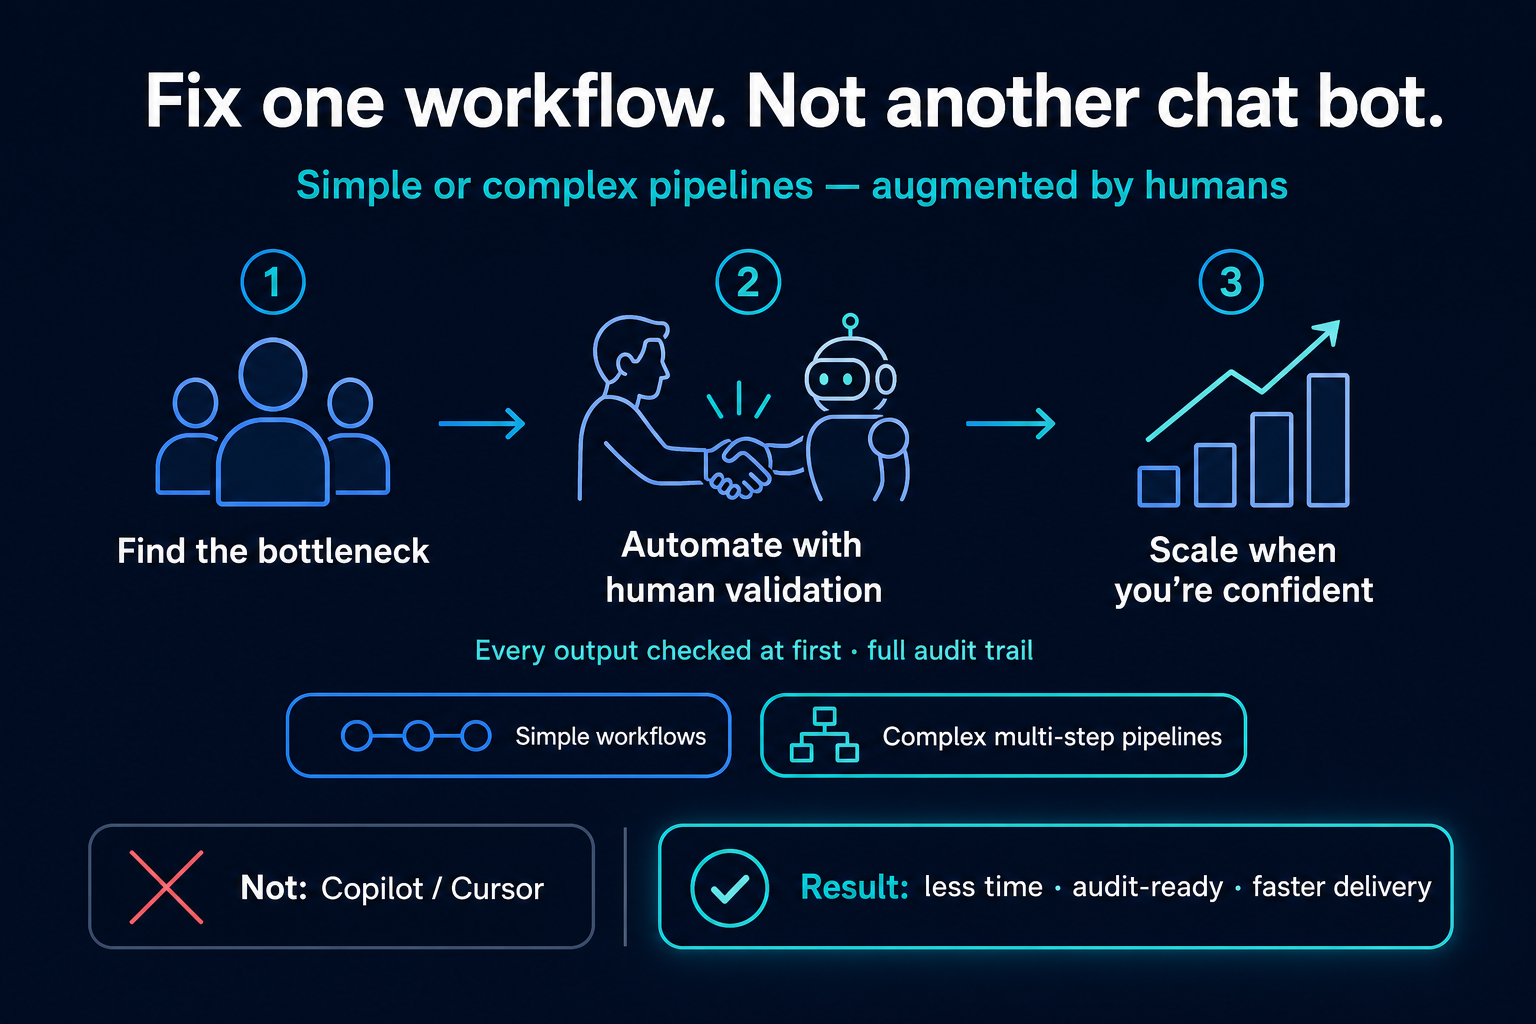
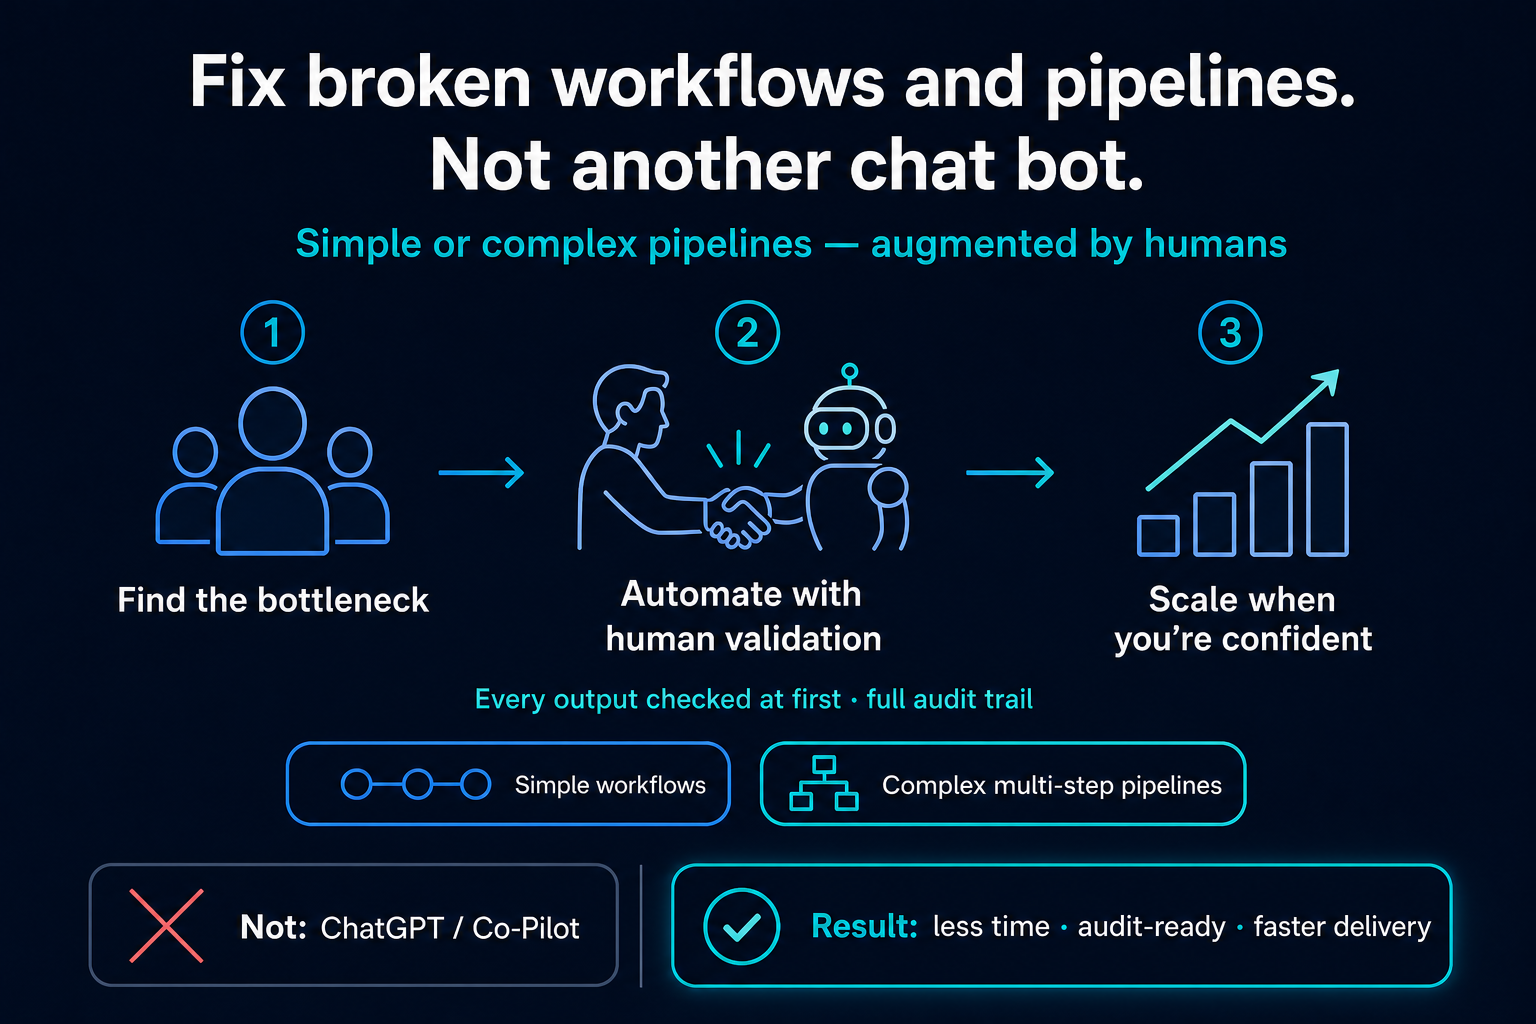
Update site content, pitch image, and fix navigation order caching.
Enforce nav order in JS, bust partial/script caches, and apply recent copy and layout updates across the home page.

Changed region(s): [[0.0625, 0.0312, 0.9688, 0.9688], [0.625, 0.4062, 0.6875, 0.4688]]

diff --git a/css/styles.css b/css/styles.css
@@ -180,14 +180,6 @@ html[data-includes-pending] .page-content {
   }
 }
 
-.badge-dot {
-  width: 0.5rem;
-  height: 0.5rem;
-  border-radius: 9999px;
-  background-color: var(--color-neon-blue);
-  box-shadow: 0 0 6px rgba(59, 130, 246, 0.6);
-}
-
 @media (prefers-reduced-motion: reduce) {
   .glass-panel-hover:hover {
     transform: none;
@@ -877,66 +869,6 @@ main > section:not(.section--hero):not(.announce-bar) {
 }
 
 /* ==========================================================================
-   Badges
-   ========================================================================== */
-
-.badge-row {
-  display: flex;
-  flex-wrap: wrap;
-  align-items: center;
-  justify-content: center;
-  gap: 0.5rem;
-}
-
-.badge {
-  display: inline-flex;
-  align-items: center;
-  gap: 0.5rem;
-  padding: 0.375rem 0.75rem;
-  border-radius: 9999px;
-  font-family: var(--font-mono);
-  font-size: 0.75rem;
-  text-transform: uppercase;
-  letter-spacing: 0.05em;
-}
-
-.badge--blue {
-  background: rgba(59, 130, 246, 0.1);
-  border: 1px solid rgba(59, 130, 246, 0.2);
-  color: var(--color-neon-blue);
-}
-
-.badge--teal {
-  background: rgba(6, 182, 212, 0.1);
-  border: 1px solid rgba(6, 182, 212, 0.2);
-  color: var(--color-neon-teal);
-}
-
-.badge--green {
-  background: rgba(16, 185, 129, 0.1);
-  border: 1px solid rgba(16, 185, 129, 0.2);
-  color: var(--color-neon-green);
-}
-
-.badge--violet {
-  background: rgba(139, 92, 246, 0.1);
-  border: 1px solid rgba(167, 139, 250, 0.25);
-  color: var(--color-violet);
-}
-
-.badge--amber {
-  background: rgba(245, 158, 11, 0.1);
-  border: 1px solid rgba(251, 191, 36, 0.25);
-  color: var(--color-amber);
-}
-
-.badge--emerald {
-  background: rgba(16, 185, 129, 0.1);
-  border: 1px solid rgba(52, 211, 153, 0.25);
-  color: var(--color-emerald);
-}
-
-/* ==========================================================================
    Hero & announcement
    ========================================================================== */
 
@@ -1264,6 +1196,27 @@ main > section:not(.section--hero):not(.announce-bar) {
 
 .credential-list .icon-green {
   color: var(--color-neon-green);
+}
+
+.profile-focus-heading {
+  margin: 0 0 0.625rem;
+}
+
+.profile-focus-list {
+  list-style: none;
+  padding: 0;
+  margin: 0 0 1rem;
+  font-size: 0.75rem;
+  color: var(--color-text-muted);
+  line-height: 1.5;
+  display: flex;
+  flex-direction: column;
+  gap: 0.625rem;
+}
+
+.profile-focus-list strong {
+  color: var(--color-text);
+  font-weight: 600;
 }
 
 .linkedin-link {

diff --git a/index.html b/index.html
@@ -60,18 +60,6 @@
     <section class="section--hero" aria-labelledby="hero-heading">
         <div class="container-md">
             <div class="hero-content">
-                <div class="badge-row">
-                    <div class="badge badge--blue">
-                        <span class="badge-dot" aria-hidden="true"></span>
-                        Pharma
-                    </div>
-                    <div class="badge badge--teal">MedTech</div>
-                    <div class="badge badge--green">Quality &amp; Compliance</div>
-                    <div class="badge badge--violet">Business Systems</div>
-                    <div class="badge badge--amber">FinTech</div>
-                    <div class="badge badge--emerald">Recycling</div>
-                </div>
-
                 <h1 id="hero-heading" class="heading-hero">
                     Practical <span class="text-gradient">AI</span> for Regulated Businesses
                 </h1>
@@ -83,7 +71,7 @@
                 <figure class="content-figure content-figure--hero">
                     <img
                         src="images/bespoke-ai-workflow-pitch-v2.png"
-                        alt="Fix one workflow, not another chatbot: find the bottleneck, automate with human validation, scale when confident. Simple or complex pipelines augmented by humans."
+                        alt="Fix broken workflows and pipelines, not another chatbot: find the bottleneck, automate with human validation, scale when confident. Not ChatGPT or Co-Pilot — simple or complex pipelines augmented by humans."
                         width="1536"
                         height="1024"
                         loading="eager"
@@ -199,8 +187,17 @@
                         <h2 class="profile-name">Karl Nolan</h2>
                         <p class="profile-role">Principal Consultant &amp; Solutions Architect</p>
                         <p class="text-body-sm">
-                            Karl leads global teams of 45+ engineers, moves systems to Google Cloud and Microsoft Azure, and builds AI workflows for regulated businesses.
+                            Over 26 years, Karl has directed global engineering teams, modernised legacy systems, and led cloud-native migrations on Google Cloud and Microsoft Azure.
                         </p>
+                        <p class="text-body-sm">
+                            Beyond generic AI hype, he focuses on high-value improvements in real business processes — pairing architectural strategy with hands-on building.
+                        </p>
+                        <p class="profile-focus-heading text-mono-label text-mono-label--teal">// Core focus</p>
+                        <ul class="profile-focus-list">
+                            <li><strong>AI engineering</strong> — autonomous coding workflows and development automation to speed up delivery and code review.</li>
+                            <li><strong>Predictive data</strong> — systems designed to catch operational instability 12–18 months before regulatory impact.</li>
+                            <li><strong>Enterprise architecture</strong> — moving complex monoliths to secure microservices with clean-code practices and measurable delivery.</li>
+                        </ul>
                         <ul class="credential-list">
                             <li><i class="fa-solid fa-graduation-cap icon-blue" aria-hidden="true"></i><span>BSc Applied Computing (First Class Honours), SETU/WIT</span></li>
                             <li><i class="fa-brands fa-google icon-teal" aria-hidden="true"></i><span>Google Cloud Digital Leader Certification</span></li>
@@ -212,7 +209,7 @@
                         <div class="profile-callouts">
                             <div class="info-callout">
                                 <i class="fa-solid fa-shield-halved" aria-hidden="true"></i>
-                                <span>Clear advice plus hands-on building — not theory only.</span>
+                                <span>We want to help with clear advice plus hands-on building — not theory only.</span>
                             </div>
                             <div class="info-callout info-callout--guarantee">
                                 <i class="fa-solid fa-circle-check" aria-hidden="true"></i>
@@ -225,7 +222,7 @@
                 <div class="stack-xl">
                     <div>
                         <span class="text-mono-label text-mono-label--blue">// How We Work</span>
-                        <h2 class="heading-section">We Build Software. We Don't Just Advise.</h2>
+                        <h2 class="heading-section">We Build Solutions. We Don't Just Advise.</h2>
                     </div>
                     <p class="text-body">
                         We do not operate as an abstract advisory agency that delivers lengthy, impractical slide decks. At <strong class="text-strong">Bespoke AI Engineering Limited</strong>, we deliver working software — AI assistants, ways to collect data without complex integrations, and modern cloud systems built for audit and regulation.
@@ -545,8 +542,8 @@
     <div id="site-footer"></div>
 </div>
 
-<script src="js/site-config.js"></script>
-<script src="js/includes.js"></script>
+<script src="js/site-config.js?v=20260622"></script>
+<script src="js/includes.js?v=20260622"></script>
 <script src="js/site.js"></script>
 <script>
     document.getElementById('contact-form-link').href = SITE.googleFormUrl;

diff --git a/js/includes.js b/js/includes.js
@@ -28,6 +28,31 @@
     if (announce) announce.classList.add('hidden');
   }
 
+  function reorderNavLinks(container) {
+    if (!container || !SITE.navOrder) return;
+
+    SITE.navOrder.forEach(function (section) {
+      const link = container.querySelector('[data-nav="' + section + '"]');
+      if (link) container.appendChild(link);
+    });
+  }
+
+  function configureNavOrder() {
+    const headerNav = document.querySelector('.nav');
+    const mobileMenu = document.getElementById('mobile-menu');
+    const footerNav = document.querySelector('.footer-nav');
+
+    reorderNavLinks(headerNav);
+    if (mobileMenu) {
+      const cta = document.getElementById('mobile-menu-cta');
+      SITE.navOrder.forEach(function (section) {
+        const link = mobileMenu.querySelector('[data-nav="' + section + '"]');
+        if (link) mobileMenu.insertBefore(link, cta || null);
+      });
+    }
+    reorderNavLinks(footerNav);
+  }
+
   function configureNav() {
     document.querySelectorAll('[data-nav]').forEach(function (link) {
       const section = link.dataset.nav;
@@ -60,7 +85,8 @@
   async function loadPartial(id, url) {
     const el = document.getElementById(id);
     if (!el) return;
-    const res = await fetch(url);
+    const versionedUrl = url + (url.indexOf('?') === -1 ? '?' : '&') + 'v=' + encodeURIComponent(SITE.partialVersion || '1');
+    const res = await fetch(versionedUrl, { cache: 'no-store' });
     if (!res.ok) throw new Error('Failed to load ' + url);
     el.innerHTML = await res.text();
   }
@@ -70,6 +96,7 @@
     loadPartial('site-footer', 'partials/footer.html'),
   ])
     .then(function () {
+      configureNavOrder();
       configureNav();
       configureWorkshopVisibility();
       document.documentElement.removeAttribute('data-includes-pending');

diff --git a/workshop.html b/workshop.html
@@ -147,8 +147,8 @@
     <div id="site-footer"></div>
 </div>
 
-<script src="js/site-config.js"></script>
-<script src="js/includes.js"></script>
+<script src="js/site-config.js?v=20260622"></script>
+<script src="js/includes.js?v=20260622"></script>
 <script src="js/site.js"></script>
 <script>
     document.getElementById('workshop-apply-link').href = SITE.workshopApplicationFormUrl;

diff --git a/js/site-config.js b/js/site-config.js
@@ -6,4 +6,6 @@ const SITE = {
     showWorkshop: false,
     workshopApplicationFormUrl: 'https://forms.gle/APPLICATION_FORM_ID',
     workshopOnePagerPdf: 'workshop-one-pager.pdf',
+    partialVersion: '20260622',
+    navOrder: ['engagement', 'about', 'case-studies', 'offerings', 'workshop', 'contact'],
 };